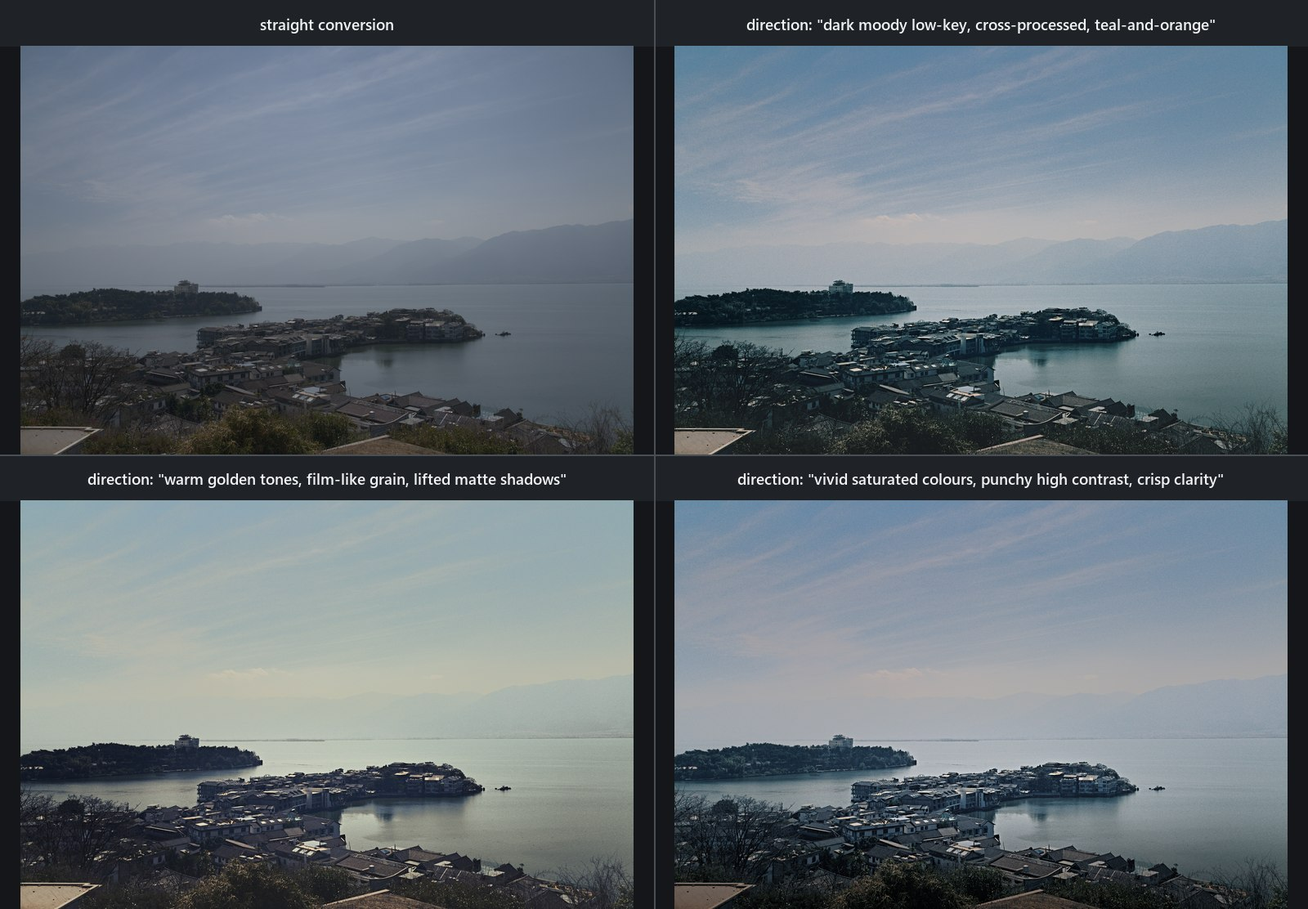
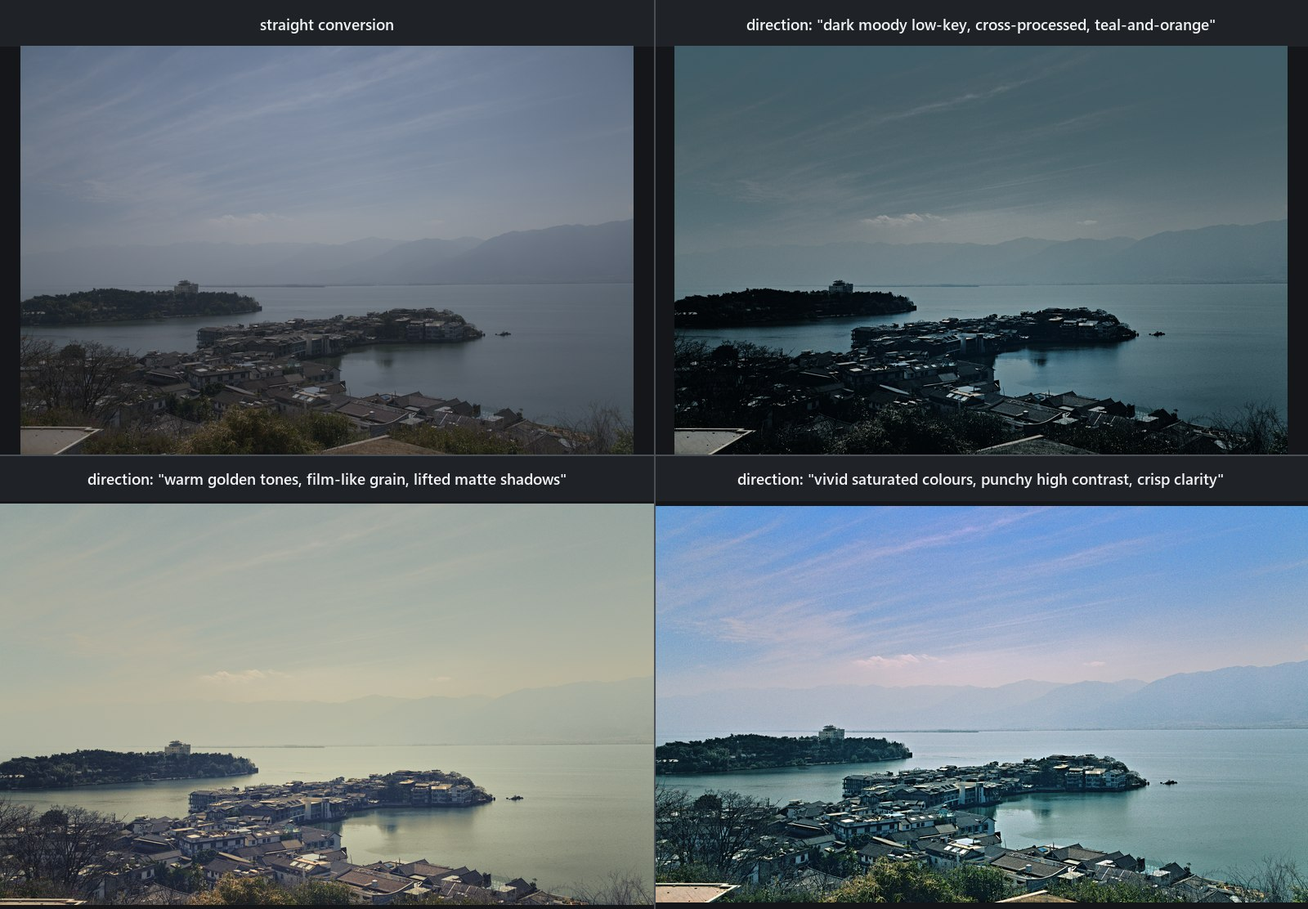
docs+site: refill the asset tables from the published v1.2.2 bytes, and the four-looks panel the user chose
Sizes and SHA-256 for the six v1.2.2 assets come from the files downloaded
from the GitHub release (run 33569093474), which sha256sum -c and an
independent digest both confirmed; the site is deployed and byte-verified
against site/ (22 files identical).

The AI-analysis panel is now the run against the finished-look library
alone (0 RAW+XMP exemplars, 94 finished photos -- the index state Defect 3
produced), on the user's ruling: with the photographer's own edits indexed
at --style 1.0 the three directions stayed inside those edits' register
(23/11/18 % saturation against 34/12/29 % here). Captions in SHOWCASE,
README, the site and the release notes say which run is shown and why, with
the judge trails of both; a direction-led Style tier is registered for
v1.2.3 in the roadmap, whose ledger gains the v1.2.2 entry.

diff --git a/site/index.html b/site/index.html
@@ -67,7 +67,7 @@
       </div>
       <figure class="hero-figure">
         <img src="images/showcase-island-four-looks.jpg?v=1.2.2" width="1600" height="1112" alt="Lakeside island town: straight conversion and three AI develops driven by three different direction texts">
-        <figcaption><strong>One photograph, four looks.</strong> Sony α7R IVA <code>.ARW</code>, 61 MP: the straight conversion of a hazy lakeside frame, then three AI develops of the same RAW at the same <code>--style 1.0 --strength 0.9</code> against the same 169-exemplar index of the photographer's own Lightroom edits — only the direction text changes. Each run retrieves the four most similar of the photographer's own edits and states their habits to the model as the target, so the direction moves the result within that anchor rather than to three unrelated grades (mean saturation 23 % / 12 % / 19 % for moody / golden / vivid against the conversion's 18 %). Judge trail 87 → 89 · 81 · 72 → 82 → 73 — automated review, not human aesthetic approval.</figcaption>
+        <figcaption><strong>One photograph, four looks.</strong> Sony α7R IVA <code>.ARW</code>, 61 MP: the straight conversion of a hazy lakeside frame, then three AI develops of the same RAW at the same <code>--strength 0.9</code> — only the direction text changes. The index behind them held the photographer's 94-photo finished-look library and no RAW+XMP exemplars, so each run took one finished photo, chosen by the direction text, as an image reference, and the direction led (mean saturation 34 % / 12 % / 29 % for moody / golden / vivid against the conversion's 17 %). With the photographer's own 169 edits indexed at <code>--style 1.0</code> the same directions stayed inside those edits' cool, hazy register (23 % / 11 % / 18 %). Judge trail 71 · 84 → 92 · 64 → 72 → 84 → 73 — automated review, not human aesthetic approval.</figcaption>
       </figure>
     </section>
 
@@ -115,12 +115,12 @@
         <h2 id="download-title">Download v1.2.2.</h2>
         <p>The published release has 7 assets — the 6 files below plus <code>checksums.txt</code>, which carries the SHA-256 of each:</p>
         <ul>
-          <li><code>autoshade.exe</code> — 20,110,336 bytes (CLI)</li>
-          <li><code>autoshade-gui.exe</code> — 26,424,832 bytes (desktop app)</li>
-          <li><code>AutoShade-Setup-1.2.2.exe</code> — 14,212,337 bytes (installer)</li>
-          <li><code>autoshade-1.2.2-windows-x64.zip</code> — 18,790,752 bytes (portable archive)</li>
-          <li><code>AutoShade-1.2.2-macos-universal.zip</code> — 37,368,504 bytes (macOS app bundle)</li>
-          <li><code>AutoShade-1.2.2-macos-cli.zip</code> — 16,121,719 bytes (macOS command line only)</li>
+          <li><code>autoshade.exe</code> — 20,207,104 bytes (CLI)</li>
+          <li><code>autoshade-gui.exe</code> — 26,497,024 bytes (desktop app)</li>
+          <li><code>AutoShade-Setup-1.2.2.exe</code> — 14,221,824 bytes (installer)</li>
+          <li><code>autoshade-1.2.2-windows-x64.zip</code> — 18,884,742 bytes (portable archive)</li>
+          <li><code>AutoShade-1.2.2-macos-universal.zip</code> — 37,523,500 bytes (macOS app bundle)</li>
+          <li><code>AutoShade-1.2.2-macos-cli.zip</code> — 16,197,828 bytes (macOS command line only)</li>
         </ul>
         <p>Choose the <strong>installer</strong> for the recommended current-user setup with no administrator access, or the <strong>portable ZIP</strong> to extract and keep the executables beside their bundled assets and Python sidecars. macOS gets a desktop app for the first time in this release: the universal (arm64 + x86_64) <code>AutoShade.app</code>, ad-hoc signed rather than notarised, so the first launch needs one explicit <em>Open Anyway</em> per machine — with the command line inside the same bundle, or as its own smaller archive. Linux is built and tested in CI with no prebuilt binaries yet.</p>
         <p><a class="button button-primary" href="https://github.com/skymanbp/autoshade/releases/tag/v1.2.2">Open the v1.2.2 release</a></p>
@@ -146,7 +146,7 @@ autoshade apply "photo.ARW" "recipe.json" -o "developed.tif"</code></pre>
     <section class="section showcase" id="showcase-a" aria-labelledby="showcase-a-title">
       <p class="section-kicker">Showcase · Part A</p>
       <h2 id="showcase-a-title">AI analysis and style transfer</h2>
-      <p class="section-lede">The four-look figure at the top of this page is Part A. One Sony α7R IVA 61 MP <code>.ARW</code>, one style index built from the photographer's own Lightroom RAW+XMP pairs (169 exemplars with SigLIP 2 image vectors and Qwen3-VL descriptions) plus a 94-photo finished-look library, and three direction texts. Nothing is copied pixel for pixel: the four nearest edits reach the model as numbers and prose and the nearest finished photo as one image, the visual judge closes the loop, and what comes back is a recipe the engine renders at full resolution.</p>
+      <p class="section-lede">The four-look figure at the top of this page is Part A. One Sony α7R IVA 61 MP <code>.ARW</code>, one index holding the photographer's 94-photo finished-look library (SigLIP 2 image vectors, ranked by the direction text) and, for that panel, none of the RAW+XMP exemplars, and three direction texts. Nothing is copied pixel for pixel: one finished photo reaches the model as an image and the direction as text, the visual judge closes the loop, and what comes back is a recipe the engine renders at full resolution. With the photographer's own 169 Lightroom edits indexed, the same directions stay inside those edits' register — the showcase page shows both.</p>
       <p>Directions, retrieved references and judge trails per panel, with every number, are in the <a href="https://github.com/skymanbp/autoshade/blob/main/docs/SHOWCASE.md">showcase page</a>.</p>
     </section>
 

diff --git a/docs/ROADMAP.md b/docs/ROADMAP.md
@@ -195,6 +195,12 @@
 
 ## 当前状态（已完成，勿重做）
 
+- **🚢 v1.2.2 已发布 2026-09-01（tag `v1.2.2` → `01de443`，release run `33569093474` 四工位绿；四资产回下载 sha256 与 checksums.txt 及独立计算三方一致，README/官网资产表按实测回填；官网部署字节校验；本机 `%LOCALAPPDATA%\Programs\AutoShade` 静默原地升级，exe 与便携包逐字节同、权重 19 文件 3,462,853,028 B 未动）。** 本版解冻 v1.2.1 的「零行为改动」封盘，因为重渲展示图时抓出三类缺陷，全部溯源到最上游根因、一类一修：
+  1. **接缝：标量边界预算看不见平滑天空的台阶**（`adf5955`）——每穿越预算 `max(context, 3×slope)` 夹 `[1/255, 0.012]`、按 charged p90 排；坡度取冻结 k=1 候选、两条同侧基线取 min（领口不得买预算）；rim/range 族拒绝计费。高架 r0c0 跨界步 0.0278→0.0042（k 0.460→0.121），交付接缝 +3.15→+0.92 码阶；纹理瓦逐字节同。九手工变异全红。地板 1/255 = 仪器极限；**range 族专用 0.012 是判词点名的第二发现，另立批**。
+  2. **嵌入预览≠传感器帧（一类三路线）**（`fb3ef85` + `6552c44`）——机身设 4:3 的 α7R IVA 把居中裁剪写成预览（1440×1080 over 9504×6336，NCC 居中 0.987）。`reimagine` 按预览规划尺寸把 3:2 显影压成 4:3 送出（D 0.304→0.139 修后）；CLI `match` 在预览上拟合整帧目标（CROPPED 警告、区/瓦蒙版落错帧；修后走 GUI 自 v0.25.0 的「整帧中性显影+组合标定」路线，康沃尔 0.137→0.027）；`photo_base_knots` 整幅对裁剪做 CDF 配对（`render::camera_frame_of` 先居中裁）。一条规则 `fit::same_frame_plausible_dims`（2%）。
+  3. **风格索引写 50 键、读 12 键**（`7420c0a`，v1.2.0 `a31eb2f` 引入的回归）——任一 HSL/分级编辑即整库 unloadable（"exemplar 0 has an unsupported setting key"），`--looks` 的合并分支再把它替换成只含成片库的文件、Style 静默读空。本会话岛屿首轮即如此跑（0 示例+94 成片），重跑前先修。`style::setting_bands` 一张表（recipe 自己的 clamp 带），两具名测试 + 变异 M-S1 双红；用户手册令 v1.2.0/1.2.1 建的索引重建一次。
+  同版带走两项排队特性（Opus 子代理 `28bed68`，主审读代码合并）：**`--xmp-dir`**（`xmp_pair` 唯一配对规则：镜像树→平铺→同目录，扩展名按目录列表大小写不敏感、stem 精确；develop 链的写侧同目录站点刻意不动）与**增量索引缓存**（`style-exemplars.json` 帧摘要+源戳；实测同库两次构建 reused 169 / recomputed 0、索引逐字节相同）。展示图全部按三支柱重生成于本版：岛屿四格（**用户 2026-09-01 裁定用只含成片库那轮**：索引 0 示例+94 成片——即缺陷 3 让 v1.2.0/1.2.1 索引落入的状态、渲于 loader 修复前的发版前树，v1.2.2 二进制读同一索引文件得同一状态（`style-query` 实证 0 邻居/94 成片）；Style 轴无可作用（rationale 原话）、每趟一张按方向选出的成片作参考图，方向主导：饱和 17%→34/12/29%、亮度 47%→38/61/65%（面板格测）；judge moody 71（引导修订 64 弃）Accept、golden 84→92 采纳但校验者两次退回没设的颗粒、终词 Revise 未保存、vivid 64→72→84 采纳→73 弃 Accept。对照 169 示例+94 成片、`--style 1.0` 同三方向 23/11/18%——自家编辑习惯当目标、方向只在锚内动，三趟均 Revise；用户据此登记 v1.2.3「方向给定时自家编辑降为背景」档，图注两版都写）；高架/康沃尔 3×2（D 0.180/0.136 重钉 fit.rs；**康沃尔全局阶段准入的逐通道 cast 曲线过了 75°/5% 重着色门却把天空染偏紫——按拟合原样展示并披露，登记 v1.2.3 跟进：色相保持的 cast 阶段 + 常规 admission 的 rationale 披露注（今日静默）**）。门：lib 1296 pass + 12 ignored / CLI 23 / GUI 160 / 契约 2+2、集差对 d628c80 +29/−1、clippy 0+0、check_docs 27/0/1、i18n 0、字体 871/871、照片名 grep 0。登记跟进：cast 色相；range 族 0.012；侧车错误泄漏路径（既有）；**Style 方向主导档**（方向给定时自家编辑降为背景，用户 2026-09-01 裁定）；GUI 目检仍属用户侧。
+
 - **🩹 v1.2.1（2026-09-01，用户裁定「破例修代码，发 v1.2.1」——**此裁定显式解除了「1.2.0 是最终版本」对本缺陷的封冻**）**：**① 缺陷**＝每台从改名前版本升级上来的 Windows 机器，桌面应用**每次启动**都打 `warning: could not move your preferences from Autoshop to AutoShade. …the next launch tries again.`——披露里「安全」那半是真的（偏好一个字节没丢、照常从旧文件夹读写），「下次再试」那半是假的：下次会以完全相同的方式失败，**永远**。**② 根因**＝`eframe::storage_dir` 在 Windows 上返回**两级深**的路径（`eframe-0.29.1/src/native/file_storage.rs:53`：`OS::Windows => roaming_appdata()`.map(|p| p.join(app_id).join("data"))`），故 `adopt_prefs_between` 实际要把 `%APPDATA%\Autoshop\data` 改名到 `%APPDATA%\AutoShade\data`，而目标的**父目录** `%APPDATA%\AutoShade` 在从没跑过新名字的机器上不存在，`MoveFileEx` 直接 `ERROR_PATH_NOT_FOUND`。修＝rename 前 `create_dir_all(parent)`，该调用自身失败仍回退。**③ 类扫过，一处真缺陷不是三处**：全仓三个 rename 式收养点里，`store.rs:482/486` 的 `current`/`legacy` 同在 `parent` 下、`serve.rs:2075/2076` 同在 `out_dir` 下，两者的目标父目录**本来就存在**；只有偏好这处因 eframe 多追加一级 `/data` 而两级深。**④ 为什么没被抓到**——测试把两个目录建成**同一个已存在 base 下的兄弟**（`base/Autoshop`／`base/AutoShade`，一级深），这个形状 Windows 根本不会产生；更糟的是它第四臂**明写**「目标父目录缺失应当回退」并断言 `FellBack`，等于**把生产缺陷钉成了正确行为**。这与 v1.2.0 自己修掉的两处同类（cfg 关分支不同步测试、只在打标签时才跑的 CI 步），至此是第三例，共同教训见 [[autoshade-macos-adopt-param]]。**⑤ 新测试驱动生产真形状**（`<roaming>/<key>/data`，且移动前先断言目标父目录不存在），不可救的 `FellBack` 臂改成「父目录位置上摆一个普通文件」使 `create_dir_all` 真失败。**可证伪性双向验过**：变异 M1（去掉修复、留新测试）→ **红**（exit 101）；变异 M2（去掉修复、把测试退回旧的兄弟形状）→ **绿**——第二条才是要害，它第一手证明旧测试永远抓不到这个缺陷。两文件均从字节备份还原。**⑥ 同窗完成官网整理**（用户令「各个部分宽度对齐 / 展示图片太多太乱需要归纳清理」）：宽度根因＝全站没有「一个东西多宽、从哪开始」的单一事实源，正文尺在六个值间各自硬编、编号导轨存在两套几何、UA 的 `figure { margin: 1em 40px }` 只被清掉了上下两边——**`.hero-figure` 与每个 `.image-pair figure` 的 40px 左右外边距一直活着**，于是全页最大的图和六张前后对比图都比同列其他图内缩 40px，且 `.image-pair` 声明的 `gap: 1rem` 实渲成 96px。修法＝补上 `--measure-text`／`--rail`／`--rail-gap` 三个缺失令牌并让每处都走它；`.part-b` 的**内容盒本来就对齐**（padding 公式恒等于 `min(100% - 2rem, --measure)`，勿动），断的是它那条画在通栏盒上的 `border-bottom`，改用 `background-size` 把线收回到 measure，同时给 40rem 断点的 `.section` 加 `:not(.part-b)`（原本按源序压过 `.part-b`，640px 以下悄悄取消了通栏却仍按通栏留白）；另修 `.split-section` 在 58rem 断点用裸 `1fr`（下限＝min-content，而 `.quickstart` 里的 `<pre>` 比视口宽）导致 ≤717px 全文档横向溢出。展示图 **12 → 7**（`<figure>` 24→19），五张降级到 `docs/SHOWCASE.md`（**一个图片文件都没删**），官网此前**零处**链接该画廊，本批首次加上（doc-grid 新卡 + Part A 正文 + 两条 Part B 图注），否则「降级」等于对读者删除；图注总量 5291→约 3100 字符、最长 1655→873。缓存键 `?v=1.2.0` → `?v=1.2.1`（22 处）。
 
 - **🚢 v1.2.0 发版收口（2026-09-01，用户令「全量文档更新+readme更新+发布新 release+网页更新+本机安装版本更新，github 那边也跟进一下项目网站网址」）**：**① macOS 工位连红 13 次的根因已修 `410993e`**——`2f67262` 加了 `adopt_pre_rename_root` 与每分支一条测试（无条件断言 Migrated/KeptBoth/FellBack），`e124d1a`（Mac M1-M3，08-31 08:20）把该函数在 macOS 上经 `ADOPT_PRE_RENAME` 常量整体关闭（成文的数据安全裁定：Mac 上从没有过旧拼法、`Library/Application Support` 默认大小写不敏感、而该函数会 **rename** 它所找到的东西），**却没同步那三条测试**（rule 12 漏同步）；最后一次绿是 `b28efd9`(07:07)。修法按仓库内已有形状统一——GUI 的 `adopt_prefs_between(current, legacy, adopt)` 早就把平台决定**当参数注入**（`gui/main.rs:176`，其调用点传 `ADOPT_PRE_RENAME_PREFS`），故其四条分支测试在 Mac 上照跑；store 侧照做，两个生产调用点传同一常量＝**任何平台零行为变化**。**顺带堵上更深的洞**：拒绝分支此前**在任何平台都没有任何测试执行过**（Mac 是唯一会走它的构建，而 Mac 正是电池死掉的地方），现由 `a_build_that_does_not_adopt_leaves_the_old_folder_strictly_alone` 钉住（陌生人目录逐字节不动）+ 源码级钉两个调用点传常量而非 `true`。**跨平台验证**＝把常量强制 `false` 模拟 macOS，五条收养测试全绿；两条亲手变异（去 `!adopt` 守卫／调用点传 `true`）全红，还原 sha256 逐字节同；真 Mac 回证＝run 33470942203 `test (macos-latest)` **success**。**② 用户裁定未兑现，发版前抓出并补上 `cf05c87`**——ROADMAP 三处独立记录（:207/:208/:1031）「macOS 资产 `.app` 与独立 CLI zip **双发**」，而 M3 是用 `.app` **替换**了 v1.1.0 那个 dist zip（mac-report.md:102 自己标了「这是发布面变更，请主审确认」，用户的答复正是双发），工作流只产一个资产。补 `AutoShade-<ver>-macos-cli.zip`，暂存规则**照抄** `build_app_bundle.sh`（同一套侧车排除：无权重／无字节码／无侧车测试），三条断言镜像 bundle 那三条。**③ macOS 侧车自检从未跑过**——`e124d1a` 加的这一步只在打标签时触发，而它与 v1.2.0 之间没推过标签，首跑即红 `ModuleNotFoundError: numpy`（`segment.py:986`）；工作流注释称其「dependency-free self-test」是**错读**了函数自己的 docstring（「without loading torch or weights」）。修＝给该步一个自带 numpy 的解释器（runner 的系统 python 是 externally managed，为装一个依赖去覆盖别人的包管理器不是修复），注释改成事实；本机同脚本 `--self-test` 亲跑通过。**④ 发版说明按 v1.2.0 义务清单重写**：此前只写披露批，而标签带 **40 个提交**；对 `git log v1.1.0..v1.2.0` 逐条补齐＝改名本身（v1.2.0 才是 AutoShade 版，v1.1.0 之后才合并）、R1 严格更优臂（`ZONE_MIN_ABS_GAIN=0.012`，`fit_zoned.rs:229`）、R2 共有内容参照人口（`CONFIDENT_MATCH=0.5`／`SHARED_POPULATION_MIN_RETENTION`＝证据模型自己的 0.35 地板，`fit.rs:1822/1942`）、对称蒸馏五通道、生成侧色彩量纲（守栏数字回源 `advisor/openai.rs:96-98`，**语料曲线数按源码 17 而非提交信息的 18**）、三处首启目录迁移表、兼容层退休表（`x:xmptk` 两拼法永久）、macOS 资产形状。**另修一条错的升级指引**：原文让用户重建 style index，而短数组零填充、零在习惯地板之下（`mask_habit.rs:250/270`），旧索引照读且不虚报——重建是为**拿到**新的 hue 列，不是为恢复功能；真正断的是反向（v1.2.0 的 11 宽索引进旧 build）。**⑤ ARCHITECTURE 计数重钉** 1268 pass + 12 ignored（旧钉 1263 是披露批之前刷的），增量链补上缺的五条具名测试（`13cebf9` +2、`693917b` +2、`410993e` +1）；README 同组数字同批同步——**是 check_docs 的 battery 断言抓出的漂移**。**⑥ 支柱 1 图注陈旧已修**：检索得分是 `d14 + emb + txt + desc` 四项（`style.rs:1845`），图上写「three rulers」；改生成脚本后重生成（docs/images 与 site/images 是逐字节副本，禁止手改），另四张图重生成后逐字节不变＝确定性回证。**⑦ GitHub 仓库 Website 字段已设** `https://autoshade.dev`（此前为空；旧域 `skymanbp-autoshop.dev` 301 过去，仓库内仅存的三处旧域引用都在 ROADMAP 历史条目里，属当时事实，不改）。**⑧ **v1.2.0 已发布并全链回验（run 33471768908 四工位全绿，tag 指 161a262）**：七资产上架，六个文件的 SHA-256 由回下载字节独立算出并与 checksums.txt 逐一相符；两个 macOS 资产在 publish 前即已开箱验过内容（CLI zip 34 项＝CLI+侧车+assets、无权重/无字节码/无侧车测试、不含 GUI；.app 38 项＝双二进制+icns+签名，plist 四键正确）。README/官网资产表按实测回填（脚本只读下载件并与 checksums.txt 交叉校验，任一不符即拒写）。**官网部署后发现并根治一类缓存缺陷**：apex 仍以 cf-cache-status: HIT / Age 80753 返回旧的支柱 1 图（11,518 B「three rulers」），而不在该缓存后的 pages.dev 别名已是新的 11,312 B——根因是 _headers 给 /images/* 七天 TTL 却挂在可变且名字固定的 URL 上；purge 走不通（探针证实 .secret 主令牌无法委派 Cache Purge：新令牌 active 且能 GET /zones/<id>，purge_cache 仍 401），故改用版本化缓存键 ?v=1.2.0（27 处引用全改，文件名不动故 docs/images 与 site/images 仍逐字节同），重部署后线上八文件逐字节全对（HTML 仅多 CF 注入的 beacon）。scripts/purge_site_cache.js 连同其失效原因一并提交而非悄悄丢弃。**本机安装已按用户裁定迁到 `%LOCALAPPDATA%\Programs\AutoShade`**：先把 881,203,461 B / 8 文件的 OneFormer 权重整体移出（同卷 move）→ 静默卸载(exit 0，注册表项与 PATH 条目均清，残留仅一个运行时生成的 .pyc)→ 以发布件安装(SHA 9a36788d… 与资产表相符)→ 权重搬回并按数量与字节回验一致；安装出来的两个 exe 与发布的独立 exe **逐字节相同**，PATH/开始菜单/卸载项全部指向新目录，`%LOCALAPPDATA%\Programs\Autoshop` 已不存在，全程未启动 GUI。GitHub 仓库 Website 字段设为 https://autoshade.dev。**登记未完成**：清账 E5（展示图重渲）阻塞于用户侧替换素材；计划步 13（R3 本机终检＝目录改名 <worktrees>/Autoshop、HF 缓存 junction 重建、~/.codex trust）硬前置为无本会话运行窗口，本会话不可执行。**

diff --git a/docs/SHOWCASE.md b/docs/SHOWCASE.md
@@ -3,7 +3,8 @@
 The three figures behind the README's pillars and the frames on
 [autoshade.dev](https://autoshade.dev/#showcase-a), with every number the
 captions quote and the prompts that bought the generated targets. All three
-were produced on the v1.2.2 build on 2026-09-01; every frame not marked
+were produced on 2026-09-01 — Part B on the v1.2.2 build, Part A on the
+pre-release tree as its caption says; every frame not marked
 *generated* is rendered by AutoShade's engine from a recipe, and every
 "straight conversion" is AutoShade's own neutral develop of the RAW, not the
 camera JPEG. Model-judge scores are automated review, not human aesthetic
@@ -20,32 +21,42 @@ defects v1.2.2 fixes on the way to this page (see
 
 <sub><b>Lakeside island town.</b> Top left, the straight conversion of a hazy
 frame. The other three are AI develops of the same RAW at the same
-<code>--style 1.0 --strength 0.9</code> against the same style index — a
-169-exemplar library built from the photographer's own Lightroom
-RAW+XMP pairs (SigLIP 2 image vectors + Qwen3-VL descriptions) and a
-94-photo finished-look library — and the only thing that changes
-between them is the <b>direction text</b>. Each run retrieves the four most
-similar of the photographer's own edits and the two nearest finished photos,
-states the edits' habits to the model as the target (that is what
-<code>--style 1.0</code> means) and shows it the nearest finished photo as an
-image; the visual judge then closes the loop. So the direction moves the
-result <i>within</i> the photographer's own cool, hazy register rather than to
-three unrelated grades: mean saturation 23 % / 12 % / 19 % (moody / golden / vivid) against the
-conversion's 18 %, mean brightness 53 % / 56 % / 53 % against
-46 %. Direction and judge trail, per panel: <i>dark moody low-key
-tones, a cross-processed colour treatment, a teal-and-orange split tone</i> —
-visual judge 87/100 Revise, its guided revision re-scored 89 and was adopted, the verifier's word on the adopted recipe was Revise; <i>warm golden tones, film-like grain, lifted matte
-shadows</i> — the verifier held Revise through two text revisions because the proposer never set the grain the direction asked for (grain stayed 0), the visual judge scored 81 and its guided revision 78 was discarded; <i>vivid saturated colours, punchy high
-contrast, crisp clarity</i> — visual judge 72/100 Revise, a first guided revision re-scored 82 and was adopted, a second 73 and was discarded, the verifier's word on the adopted recipe was Revise. All three runs ended on the
-data verifier's <i>Revise</i>, which never auto-saves, so each panel is the
-run's final proposal rendered with <code>--out</code>. For contrast: on the
-finished-look library alone — the state v1.2.2's Defect 3 had left every
-index built on v1.2.0/v1.2.1 in — the same three directions on this frame
-separated to 35 % / 12 % / 31 % saturation and read as three unrelated
-pictures, because nothing anchored them to the photographer's own edits.
-Nothing is copied pixel for pixel: the references reach the model as numbers,
-prose and one image, and what comes back is a recipe the engine
-renders.</sub>
+<code>--style 1.0 --strength 0.9</code> against the same index, and the only
+thing that changes between them is the <b>direction text</b>. That index held
+the photographer's 94-photo finished-look library and <i>no</i> RAW+XMP
+exemplars — the state v1.2.2's Defect 3 had left every index built on
+v1.2.0/v1.2.1 in, and the state this library was in when the panel was
+rendered, on the pre-release tree before the loader fix landed (the v1.2.2
+binary reads the same index file to the same state: 0 exemplars, 94 finished
+photos). So the Style axis had nothing to act on — each run's rationale says
+so in as many words — and what the model received was the direction text and
+one finished photo, chosen from the look library by that text, as an image.
+The direction led: mean saturation 34 % / 12 % / 29 % (moody / golden /
+vivid) against the conversion's 17 %, mean brightness 38 % / 61 % / 65 %
+against 47 %, measured on the panel's cells. Direction and judge trail, per
+panel: <i>dark moody low-key tones, a cross-processed colour treatment, a
+teal-and-orange split tone</i> — visual judge 71/100 Revise (the village
+crushed toward black, the orange counterpoint too weak), its guided revision
+re-scored 64 and was discarded, verdict Accept; <i>warm golden tones,
+film-like grain, lifted matte shadows</i> — the verifier sent the proposal
+back twice because it never set the grain the direction asked for, the visual
+judge scored 84 and its guided revision 92 was adopted, and the verifier's
+word on the adopted recipe was Revise, so this panel is the unsaved proposal
+rendered with <code>--out</code> (the proposal also crops 3 % off the top and
+5 % off the bottom); <i>vivid saturated colours, punchy high contrast, crisp
+clarity</i> — visual judge 64/100 Revise, guided revisions re-scored 72 and 84
+and were adopted, a third 73 was discarded, verdict Accept. For contrast: with
+the photographer's own 169 Lightroom RAW+XMP pairs indexed beside the look
+library (SigLIP 2 image vectors + Qwen3-VL descriptions), the same three
+directions at the same settings came back at 23 % / 11 % / 18 % saturation
+and 54 % / 58 % / 55 % brightness — inside the photographer's own cool, hazy
+register, because <code>--style 1.0</code> states the four nearest edits'
+habits to the model as the target and the direction then moves within that
+anchor. That is what the Style axis is for; a tier in which a given direction
+leads and the photographer's edits become background is registered for
+v1.2.3. Nothing is copied pixel for pixel: the reference reaches the model as
+one image and the direction as text, and what comes back is a recipe the
+engine renders.</sub>
 
 ## Part B — Reimagine → reverse-fit: the recipe carries the look, the RAW carries the detail
 
@@ -105,6 +116,7 @@ Reverse-fit recovers global tone, saturation and guarded colour casts, and
 bounded local corrections behind evidence and boundary gates. It does not
 claim to recover generated objects or detail, per-band hue rotation, or a
 target's local masks; every recipe's rationale names what the target appears
-to use that the solve cannot reach. The style read carries a mood — the
-advisor sees four neighbours as numbers and prose and one finished photo as an
-image — not a pixel-level look transfer, and a run that ends on a *Revise* verdict saves no recipe.
+to use that the solve cannot reach. The style read carries a mood — with the
+photographer's own edits indexed the advisor sees the four nearest as numbers
+and prose, and in either case one finished photo as an image — not a
+pixel-level look transfer, and a run that ends on a *Revise* verdict saves no recipe.

diff --git a/README.md b/README.md
@@ -121,16 +121,17 @@ the last subsection lists what is designed but not yet shipped.
 
 <sub><b>One photograph, four looks.</b> The straight conversion of a hazy
 lakeside frame and three AI develops of the same RAW at the same
-<code>--style 1.0 --strength 0.9</code> against the same 169-exemplar
-index of the photographer's own Lightroom edits — only the <b>direction
-text</b> changes. Each run retrieves the four most similar of the
-photographer's own edits and states their habits to the model as the target,
-so the direction moves the result within that anchor rather than to three
-unrelated grades (mean saturation 23 % / 12 % / 19 % for moody / golden / vivid against the conversion's
-18 %; all three runs ended on the verifier's <i>Revise</i> and are
-rendered from their unsaved proposals).
-Judge trails and prompts in [docs/SHOWCASE.md](docs/SHOWCASE.md); model-judge
-scores are automated review, not human aesthetic approval.</sub>
+<code>--strength 0.9</code> — only the <b>direction text</b> changes. The
+index behind them held the photographer's 94-photo finished-look library and
+no RAW+XMP exemplars, so each run took one finished photo, chosen by the
+direction text, as an image reference, and the direction led: mean saturation
+34 % / 12 % / 29 % for moody / golden / vivid against the conversion's 17 %,
+mean brightness 38 % / 61 % / 65 % against 47 %. With the photographer's own
+169 edits indexed at <code>--style 1.0</code> the same three directions
+stayed inside those edits' cool, hazy register (23 % / 11 % / 18 %) — that is
+what the Style axis is for, and a direction-led tier is registered for
+v1.2.3. Judge trails and prompts in [docs/SHOWCASE.md](docs/SHOWCASE.md);
+model-judge scores are automated review, not human aesthetic approval.</sub>
 
 `autoshade style-index <dir>` (or the GUI's **Style reference library**) turns
 *every finished edit you ever made* — each Lightroom RAW+XMP pair — into an
@@ -464,7 +465,7 @@ estimate. Sources are the pinned claims in
 | Reverse-fit, stone viaduct (full solve) | look error 0.161 → 0.050 at confidence 0.25 (a global solve, the per-band mixer on Orange/Yellow/Aqua/Blue, two semantic zones, four boundary-gated tiles and two field masks), D = 0.180; the sky tile's seam 0.0278 → 0.0042 (k 0.121), delivered +3.15 → +0.92 codes | [What is new §2](#2-reverse-fit-inverse-rendering-from-any-finished-look) |
 | Reverse-fit, Cornwall islet (full solve, composed calibration) | look error 0.137 → 0.027 at confidence 0.65, D = 0.136 sized from the sensor frame (0.304 from the cropped preview) | [docs/SHOWCASE.md](docs/SHOWCASE.md) |
 | Local-field ceiling, calibration pair | global fit 0.0961 against a ceiling of 0.0700; the accepted sky zone realizes 0.134 of the distance | [What is new §7](#7-a-bilateral-grid-local-field-prices-every-local-producer-first) |
-| AI develop, model judge | 2026-09-01 four-looks batch at `--style 1.0 --strength 0.9`: moody 87 → 89 (revision adopted); golden 81 (revision 78 discarded; the proposer never set the grain the direction asked for); vivid 72 → 82 (adopted) → 73 (discarded). All three runs ended on the verifier's Revise, so none auto-saved; the figure renders their final proposals | [docs/SHOWCASE.md](docs/SHOWCASE.md) |
+| AI develop, model judge | 2026-09-01 four-looks batch, finished-look library only, `--strength 0.9`: moody 71 (guided revision 64 discarded), verdict Accept; golden 84 → 92 (adopted) after the verifier twice sent the proposal back for the grain it never set, verdict Revise — unsaved, the figure renders the proposal; vivid 64 → 72 → 84 (adopted) → 73 (discarded), verdict Accept. The same directions on the full 169 + 94 index at `--style 1.0`: 87 → 89, 81, 72 → 82 → 73, all three Revise | [docs/SHOWCASE.md](docs/SHOWCASE.md) |
 | Style retrieval weights | corpus harness (169 described exemplars, 156 queries): `W_EMB=4`, `W_TXT=0.5`, `W_DESC=0.5`, standardised variant with the text-hubness correction — MAE 0.688864 vs baseline 0.713143, +0.024280, CI [+0.005837, +0.041111] under the prose proxy; the corrected point at the old `W_TXT=4` regresses with CI [−0.069654, −0.005140], which is why the weight moved; under the tag-string proxy nothing beats the text-free row; `W_LOOK=1.0` is unmeasured (the harness cannot see the look library) and its scale is a real ratio against the direction terms — it ships inside a stable band, order unchanged to 2x and first moving at 4x | [AI advisor](#ai-advisor-and-reverse-fit) |
 | Memory budget | 1800 MB per photo from a 1771 MB reference probe; 4 GiB RAW admission gate | [Application](#application-and-infrastructure) |
 
@@ -479,12 +480,12 @@ on the release page carries the SHA-256 of every asset.
 
 | File | Size | SHA-256 |
 |---|---:|---|
[12 lines of base64/hex data omitted]
 
 Download from the
 [v1.2.2 release page](https://github.com/skymanbp/autoshade/releases/tag/v1.2.2):

diff --git a/docs/RELEASE_NOTES_v1.2.2.md b/docs/RELEASE_NOTES_v1.2.2.md
@@ -171,9 +171,14 @@ refused.
   The build reports `reused N, recomputed M, removed K`. On the showcase
   library the second build of 169 pairs reused every one and produced a
   byte-identical index.
-- **The showcase is re-rendered on this build** — one four-looks panel for
-  the AI-analysis pillar and two 3 × 2 reverse-fit panels for the
+- **The showcase is re-rendered for this release** — one four-looks panel
+  for the AI-analysis pillar and two 3 × 2 reverse-fit panels for the
   reimagine → fit pillar, with every number in [docs/SHOWCASE.md](SHOWCASE.md).
+  The four-looks panel is the run against the finished-look library alone —
+  the index state Defect 3 produced — because with the photographer's own
+  edits indexed at `--style 1.0` the three directions stayed inside those
+  edits' register; the showcase page reports both runs, and a direction-led
+  Style tier is registered for v1.2.3.
   The Cornwall panel is shown as fitted: its global stage admitted
   per-channel cast curves that pass the re-hue gate yet tint the delivered
   sky toward violet against the target's blue. That is the fit's current
